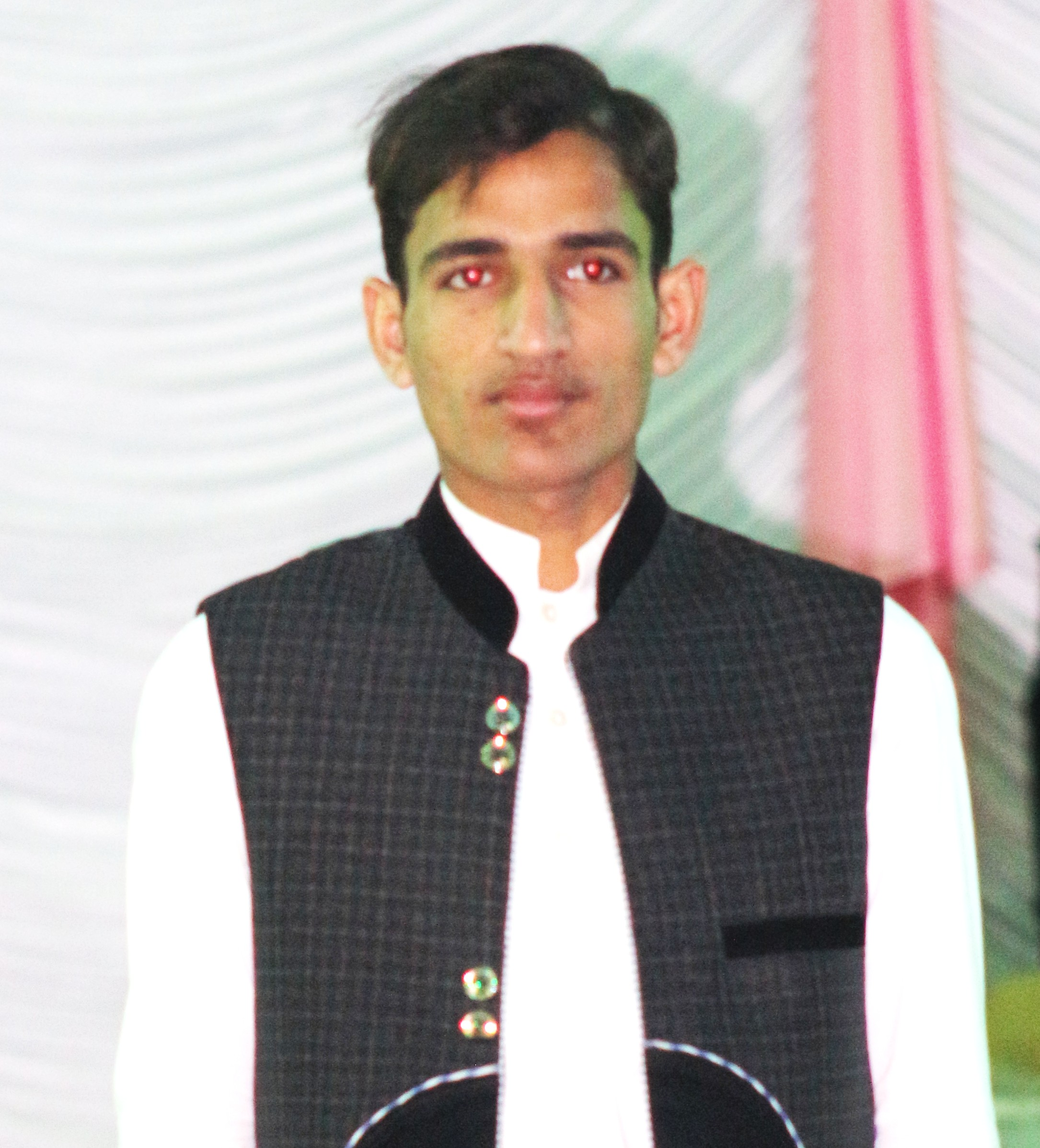
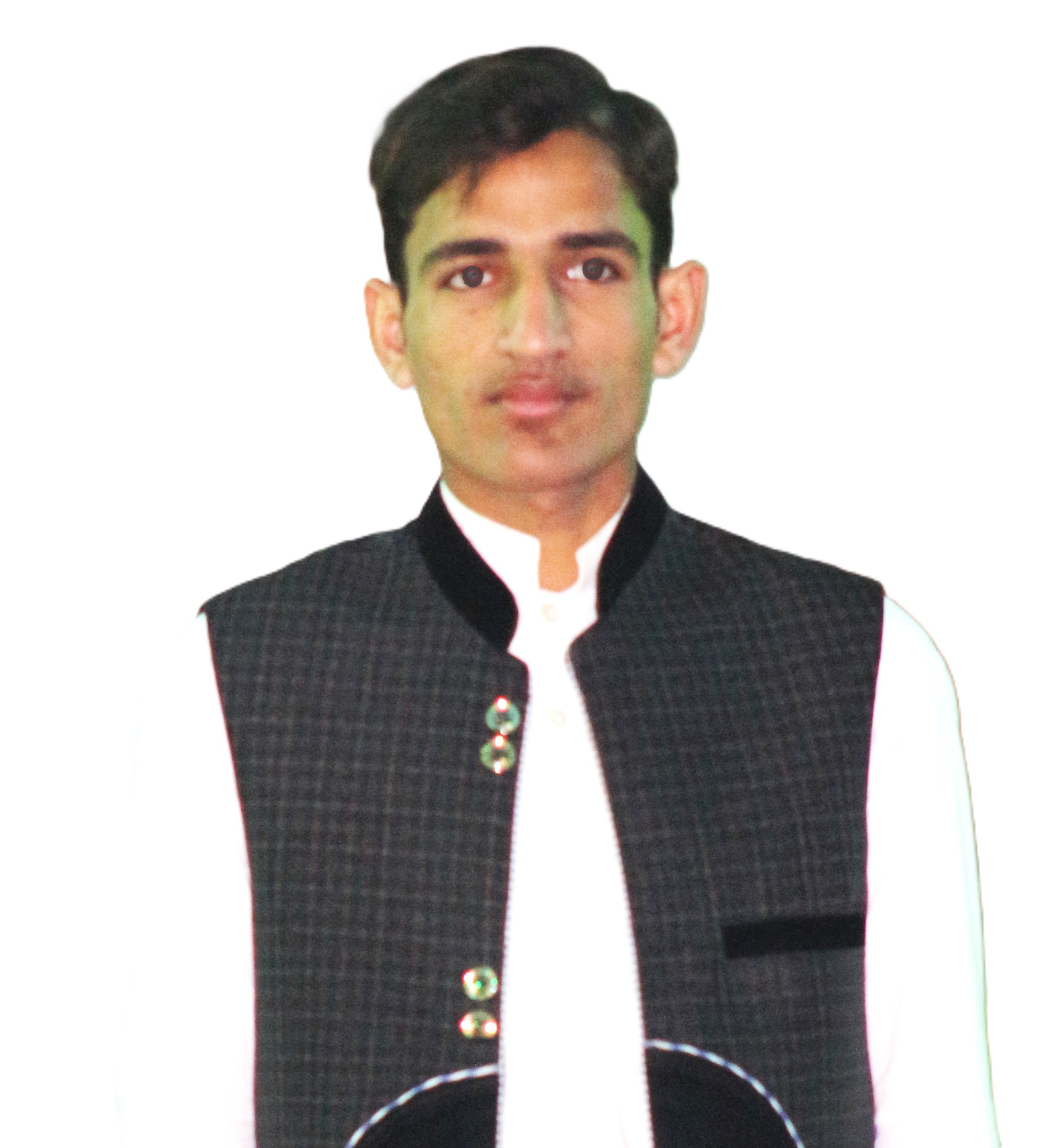
set meta data image

diff --git a/index.html b/index.html
@@ -27,9 +27,10 @@
 
   <!-- Open Graph Meta Tags (for Facebook, LinkedIn, etc.) -->
   <meta property="og:title" content="Huzaifa - Flutter & Jr NodeJs Developer">
-  <meta property="og:description"
-    content="Explore Huzaifa's portfolio, featuring Flutter & Jr. NodeJs projects, showcasing expertise in mobile and web development.">
-  <meta property="og:image" content="https://huzaifa-portfolio-67.web.app/assets/prof1.jpg">
+  <meta property="og:description" content="Explore Huzaifa's portfolio, featuring Flutter & Jr. NodeJs projects, showcasing expertise in mobile and web development.">
+  <meta property="og:image" content="https://huzaifa-portfolio-67.web.app/assets/prof-social.jpg">
+  <meta property="og:image:secure_url" content="https://huzaifa-portfolio-67.web.app/assets/prof-social.jpg">
+  <meta property="og:image:alt" content="Huzaifa's Portfolio Image">
   <meta property="og:url" content="https://huzaifa-portfolio-67.web.app">
   <meta property="og:type" content="website">
   <meta property="og:site_name" content="Huzaifa's Portfolio">
@@ -37,16 +38,20 @@
   <meta property="og:image:width" content="1200">
   <meta property="og:image:height" content="630">
   <meta property="og:image:type" content="image/jpeg">
-  <meta property="og:image:alt" content="Huzaifa's Portfolio Image">
   <meta property="og:updated_time" content="2025-01-01T00:00:00Z">
 
+  <!-- set for whatsapp -->
+  <meta property="og:whatsapp:description"
+    content="Explore Huzaifa's portfolio, featuring Flutter & Jr. NodeJs projects, showcasing expertise in mobile and web development.">
+  <meta property="og:whatsapp:title" content="Huzaifa - Flutter & Jr NodeJs Developer">
+  <meta property="og:whatsapp:image" content="https://huzaifa-portfolio-67.web.app/assets/prof-social.jpg">
+  <meta property="og:whatsapp:url" content="https://huzaifa-portfolio-67.web.app">
+  <meta property="og:whatsapp:site_name" content="Huzaifa's Portfolio">
+  <meta property="og:whatsapp:locale" content="en_US">
+  <meta property="og:whatsapp:image:width" content="1200">
+  <meta property="og:whatsapp:image:height" content="630">
+  <meta property="og:whatsapp:image:type" content="image/jpeg">
 
-  <!-- Twitter Card Meta Tags -->
-  <meta name="twitter:card" content="summary_large_image">
-  <meta name="twitter:title" content="Huzaifa - Flutter & Jr. NodeJs Developer">
-  <meta name="twitter:description"
-    content="Explore Huzaifa's portfolio, featuring Flutter and Jr. Node.js projects, showcasing expertise in mobile and web development.">
-  <meta name="twitter:image" content="https://huzaifa-portfolio-67.web.app/assets/prof1.jpg">
 
   <!-- JSON-LD Structured Data for Schema.org -->
   <script type="application/ld+json">
